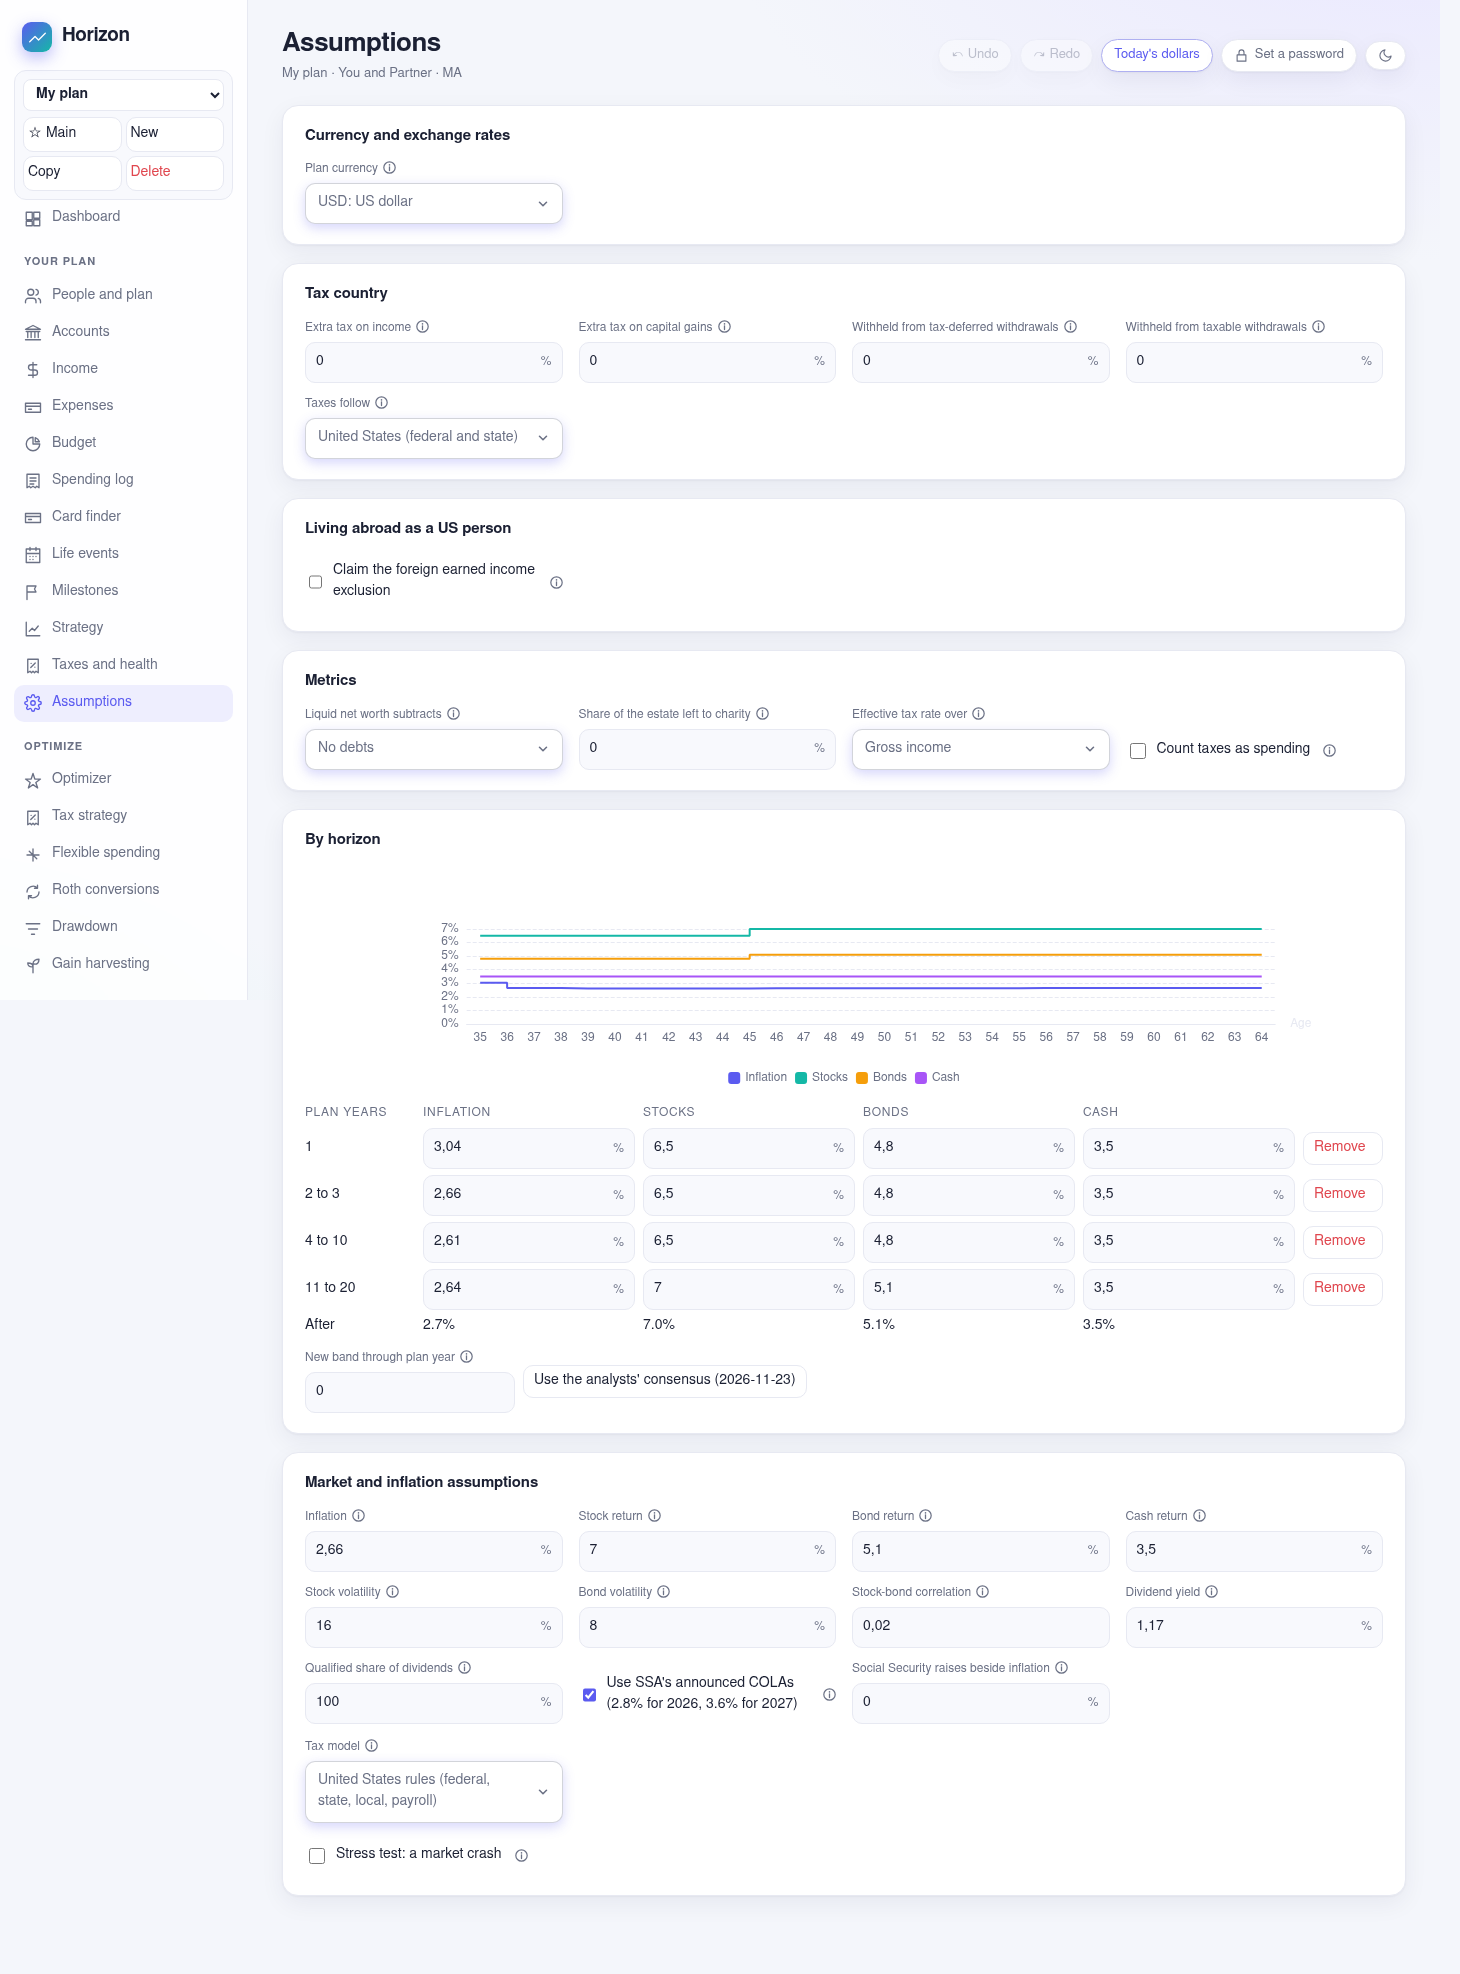
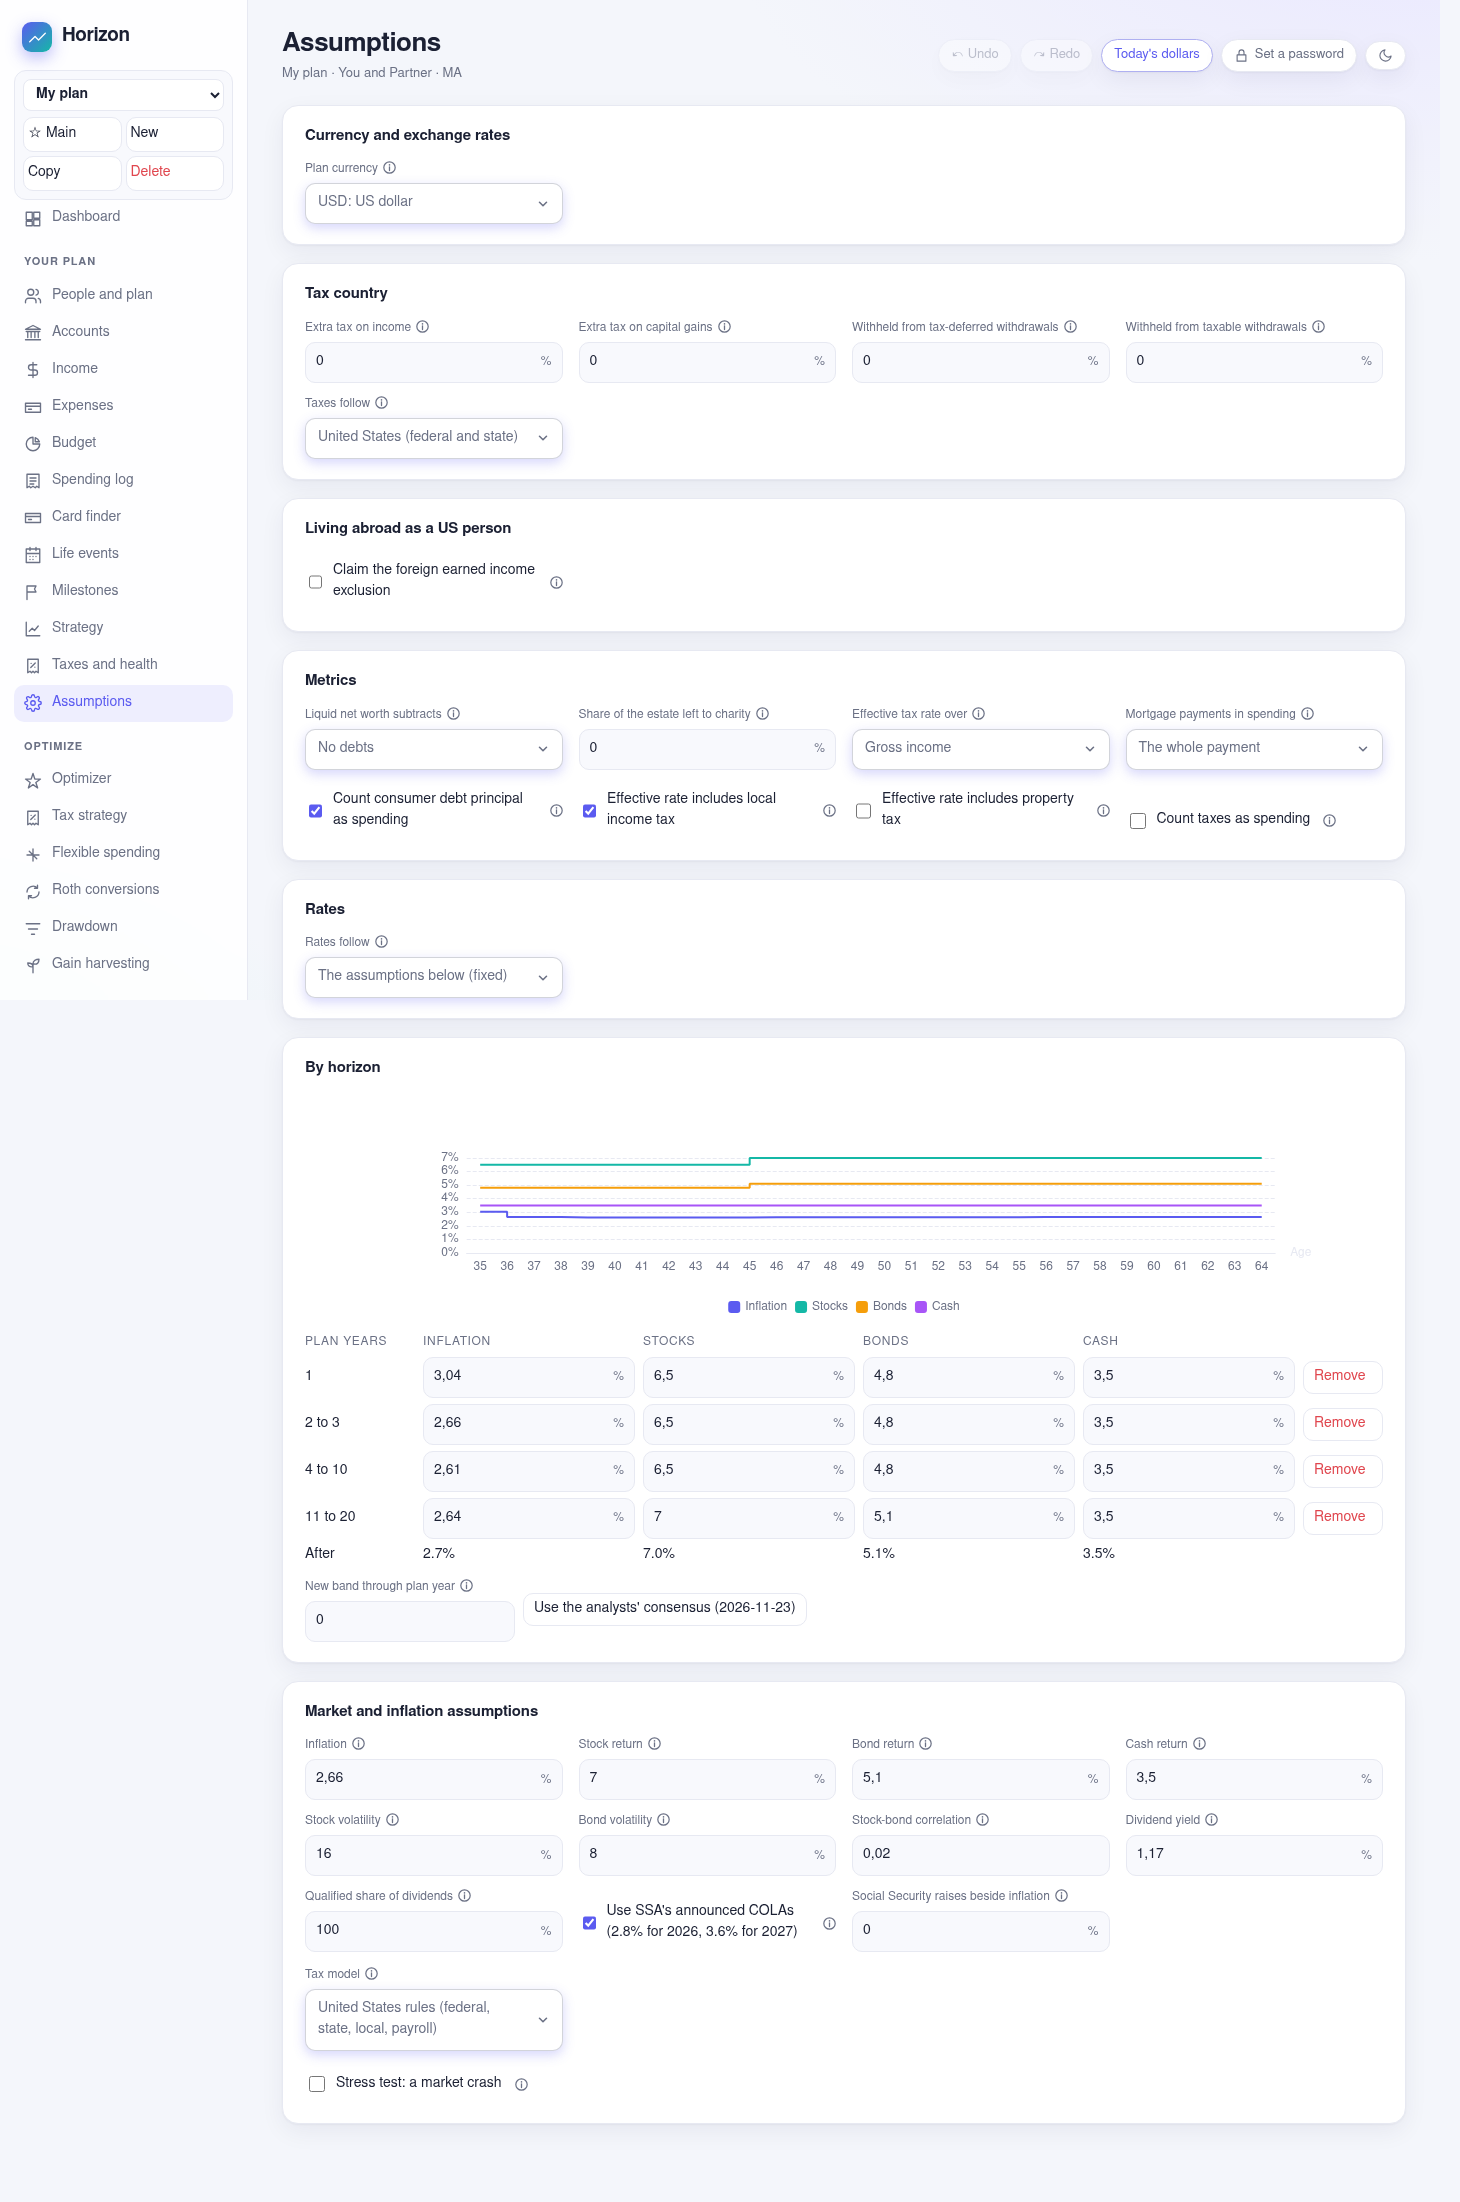
Metrics: mortgage payments and debt principal in spending; local income tax and property tax in the effective rate
Claude-Session: https://claude.ai/code/session_01HeJ1UAxjk6MGEszesTwGbu

diff --git a/10_app/code/src/engine/simulate.ts b/10_app/code/src/engine/simulate.ts
@@ -648,7 +648,7 @@ function simulateOnce(plan: Plan, path: ReturnPath, rothByYear?: Record<number, 
     }
     // Flexible spending: the discretionary share of each expense is cut while the portfolio sits under its high by the
     // chosen share, and raised while it sits above where it began by the chosen share (all in today's dollars).
-    let flexChange = 0;
+    let flexChange = 0, notSpending = 0;
     const discretionary = plan.expenses.reduce((t, e) => t + (expenses[e.id] ?? 0) * (e.discretionary ?? 0), 0);
     if (s.flex?.enabled && y >= (s.flex.from ?? -Infinity) && y <= (s.flex.to ?? Infinity)) {
       const realPortfolio = liquid(state, accounts, y, (id) => ages[id]) / index;
@@ -673,9 +673,13 @@ function simulateOnce(plan: Plan, path: ReturnPath, rothByYear?: Record<number, 
       if (d.kind !== 'debt' || d.paidInFull || state.balance[d.id] >= 0) continue;
       const owed = -state.balance[d.id] * (1 + (d.interestRate ?? 0));
       const pay = Math.min(owed, (d.payment ?? 0) + (d.extraPayment ?? 0) * index);
+      const principal = Math.max(0, pay - -state.balance[d.id] * (d.interestRate ?? 0));
       state.balance[d.id] = -(owed - pay);
       expenses[d.id] = pay;
       totalExpenses += pay;
+      // what the spending metric leaves out, by the Metrics settings: mortgage payments or their principal, debt principal
+      const sp = a.metrics?.spendingDebts;
+      if (sp) { const home = !!d.securedBy; notSpending += home ? (sp.mortgage === 'none' ? pay : sp.mortgage === 'interest' ? principal : 0) : (sp.debtPrincipal === false ? principal : 0); }
     }
     // Health insurance tied to income: Medicare from 65 (IRMAA on MAGI two years back), and the ACA with its credit
     // for retirees under 65 (on last year's MAGI, the best estimate before the year's own taxes are known).
@@ -1150,7 +1154,7 @@ function simulateOnce(plan: Plan, path: ReturnPath, rothByYear?: Record<number, 
       socialSecurity: ssTotal,
       expenses,
       totalExpenses,
-      spending: a.metrics?.spendingWithTaxes ? totalExpenses + tax.total : totalExpenses,
+      spending: (a.metrics?.spendingWithTaxes ? totalExpenses + tax.total : totalExpenses) - notSpending,
       contributions,
       employerMatch: match,
       withdrawals,
@@ -1185,7 +1189,7 @@ function simulateOnce(plan: Plan, path: ReturnPath, rothByYear?: Record<number, 
         ordinaryTaxable: tax.ordinaryTaxable,
         marginalRate: tax.marginalRate,
         withheld: (() => { let w = 0; for (const x of accounts) { const d = withdrawals[x.id] ?? 0; if (x.kind === 'traditional') w += d * (a.withholdTraditional ?? 0); else if (x.kind === 'taxable') w += d * (a.withholdTaxable ?? 0); } return w || undefined; })(),
-        effectiveRate: ((b) => (b > 0 ? tax.total / b : 0))(a.metrics?.taxRateBase === 'agi' ? tax.agi : a.metrics?.taxRateBase === 'taxable' ? tax.taxableIncome : gross),
+        effectiveRate: ((b) => (b > 0 ? (tax.total - (a.metrics?.rateWithoutLocal ? tax.local ?? 0 : 0) + (a.metrics?.rateWithProperty ? propertyTax : 0)) / b : 0))(a.metrics?.taxRateBase === 'agi' ? tax.agi : a.metrics?.taxRateBase === 'taxable' ? tax.taxableIncome : gross),
       },
       investmentReturn,
       shortfall,

diff --git a/10_app/code/src/pages/Editors.tsx b/10_app/code/src/pages/Editors.tsx
@@ -1065,6 +1065,10 @@ export function AssumptionsPage() {
           <Select label="Liquid net worth subtracts" value={a.metrics?.liquidDebts ?? 'none'} options={[['none', 'No debts'], ['unsecured', 'Unsecured debts'], ['all', 'All debts, home loans included']]} onChange={(v) => update((p) => { p.assumptions.metrics = { ...p.assumptions.metrics, liquidDebts: v }; })} />
           <Num label="Share of the estate left to charity" percent value={a.metrics?.charityShare ?? 0} onChange={(v) => update((p) => { p.assumptions.metrics = { ...p.assumptions.metrics, charityShare: Math.max(0, Math.min(1, v)) || undefined }; })} />
           <Select label="Effective tax rate over" value={a.metrics?.taxRateBase ?? 'gross'} options={[['gross', 'Gross income'], ['agi', 'Adjusted gross income'], ['taxable', 'Taxable income']]} onChange={(v) => update((p) => { p.assumptions.metrics = { ...p.assumptions.metrics, taxRateBase: v === 'gross' ? undefined : v }; })} />
+          <Select label="Mortgage payments in spending" value={a.metrics?.spendingDebts?.mortgage ?? 'all'} options={[['all', 'The whole payment'], ['interest', 'Interest only (principal is saving)'], ['none', 'None of it']]} onChange={(v) => update((p) => { p.assumptions.metrics = { ...p.assumptions.metrics, spendingDebts: { ...p.assumptions.metrics?.spendingDebts, mortgage: v === 'all' ? undefined : v } }; })} />
+          <Check label="Count consumer debt principal as spending" value={a.metrics?.spendingDebts?.debtPrincipal !== false} onChange={(v) => update((p) => { p.assumptions.metrics = { ...p.assumptions.metrics, spendingDebts: { ...p.assumptions.metrics?.spendingDebts, debtPrincipal: v ? undefined : false } }; })} />
+          <Check label="Effective rate includes local income tax" value={!a.metrics?.rateWithoutLocal} onChange={(v) => update((p) => { p.assumptions.metrics = { ...p.assumptions.metrics, rateWithoutLocal: v ? undefined : true }; })} />
+          <Check label="Effective rate includes property tax" value={!!a.metrics?.rateWithProperty} onChange={(v) => update((p) => { p.assumptions.metrics = { ...p.assumptions.metrics, rateWithProperty: v || undefined }; })} />
           <Check label="Count taxes as spending" value={!!a.metrics?.spendingWithTaxes} onChange={(v) => update((p) => { p.assumptions.metrics = { ...p.assumptions.metrics, spendingWithTaxes: v || undefined }; })} />
         </div>
       </Card>

diff --git a/10_app/code/src/engine/types.ts b/10_app/code/src/engine/types.ts
@@ -427,7 +427,11 @@ export interface LocalTax {
 export interface Assumptions {
   /** How metrics are figured (ProjectionLab's Metrics settings): which debts liquid net worth subtracts (none, the
    * unsecured ones, or all, real-asset loans included), and the share of the estate left to charity in net legacy. */
-  metrics?: { liquidDebts?: 'none' | 'unsecured' | 'all'; charityShare?: number; taxRateBase?: 'gross' | 'agi' | 'taxable'; spendingWithTaxes?: boolean };
+  metrics?: { liquidDebts?: 'none' | 'unsecured' | 'all'; charityShare?: number; taxRateBase?: 'gross' | 'agi' | 'taxable'; spendingWithTaxes?: boolean;
+    /** Spending counts mortgage payments in full, only their interest, or none of them; and consumer debts' principal or not. */
+    spendingDebts?: { mortgage?: 'all' | 'interest' | 'none'; debtPrincipal?: boolean };
+    /** The effective tax rate leaves out local income tax, or adds property tax. */
+    rateWithoutLocal?: boolean; rateWithProperty?: boolean };
   /** Plan everyone to one age, or to one calendar year, except people who keep their own (Person.ownPlanTo). */
   planTo?: { mode: 'person' | 'age' | 'year'; age?: number; year?: number };
   /** One retirement age for everyone, except people who keep their own (Person.ownRetirementAge). */

diff --git a/10_app/code/src/help.ts b/10_app/code/src/help.ts
@@ -334,4 +334,8 @@ export const HELP: Record<string, string> = {
   "Withheld from taxable withdrawals": "The share of each taxable account sale withheld for tax.",
   "Rates follow": "Fixed uses the return and inflation assumptions on this page; history replays each year's actual stock, bond, and cash returns and inflation from a start year, in order.",
   "History from the year": "The first historical year the plan replays: 1966, for instance, starts with the high inflation of the 1970s; 1929 with the Depression.",
+  "Mortgage payments in spending": "Whether spending counts the whole mortgage payment, only its interest (treating principal as saving), or none of it.",
+  "Count consumer debt principal as spending": "Whether paying down cards and loans counts as spending, or only their interest.",
+  "Effective rate includes local income tax": "Count city and county income tax in the effective tax rate.",
+  "Effective rate includes property tax": "Count property tax in the effective tax rate.",
 };

diff --git a/todo.md b/todo.md
@@ -56,5 +56,5 @@ Asked by Bryce on 2026-11-23, in the order to build.
 ## From the live ProjectionLab app (signed in 2026-11-23; captures in 99_overall/output/pl_live/)
 - Estate: heirs' tax rate on tax-deferred accounts, capital gains rate, stepped-up basis, liquidation cost, administrative cost, the final tax return, estate drag, and a breakdown by account.
 - Tax analytics: by income item, gross, tax, net, and effective rate; notable events (penalized distributions, RMDs, Roth conversions, tax-deferred distributions).
-- Metrics: effective rate including return of capital, non-taxable sale proceeds, tax-free withdrawals, local income tax, and property tax; spending including mortgage payments, mortgage principal, consumer debt principal.
+- Metrics: the effective rate's income adding return of capital, non-taxable sale proceeds, and tax-free withdrawals.
 
